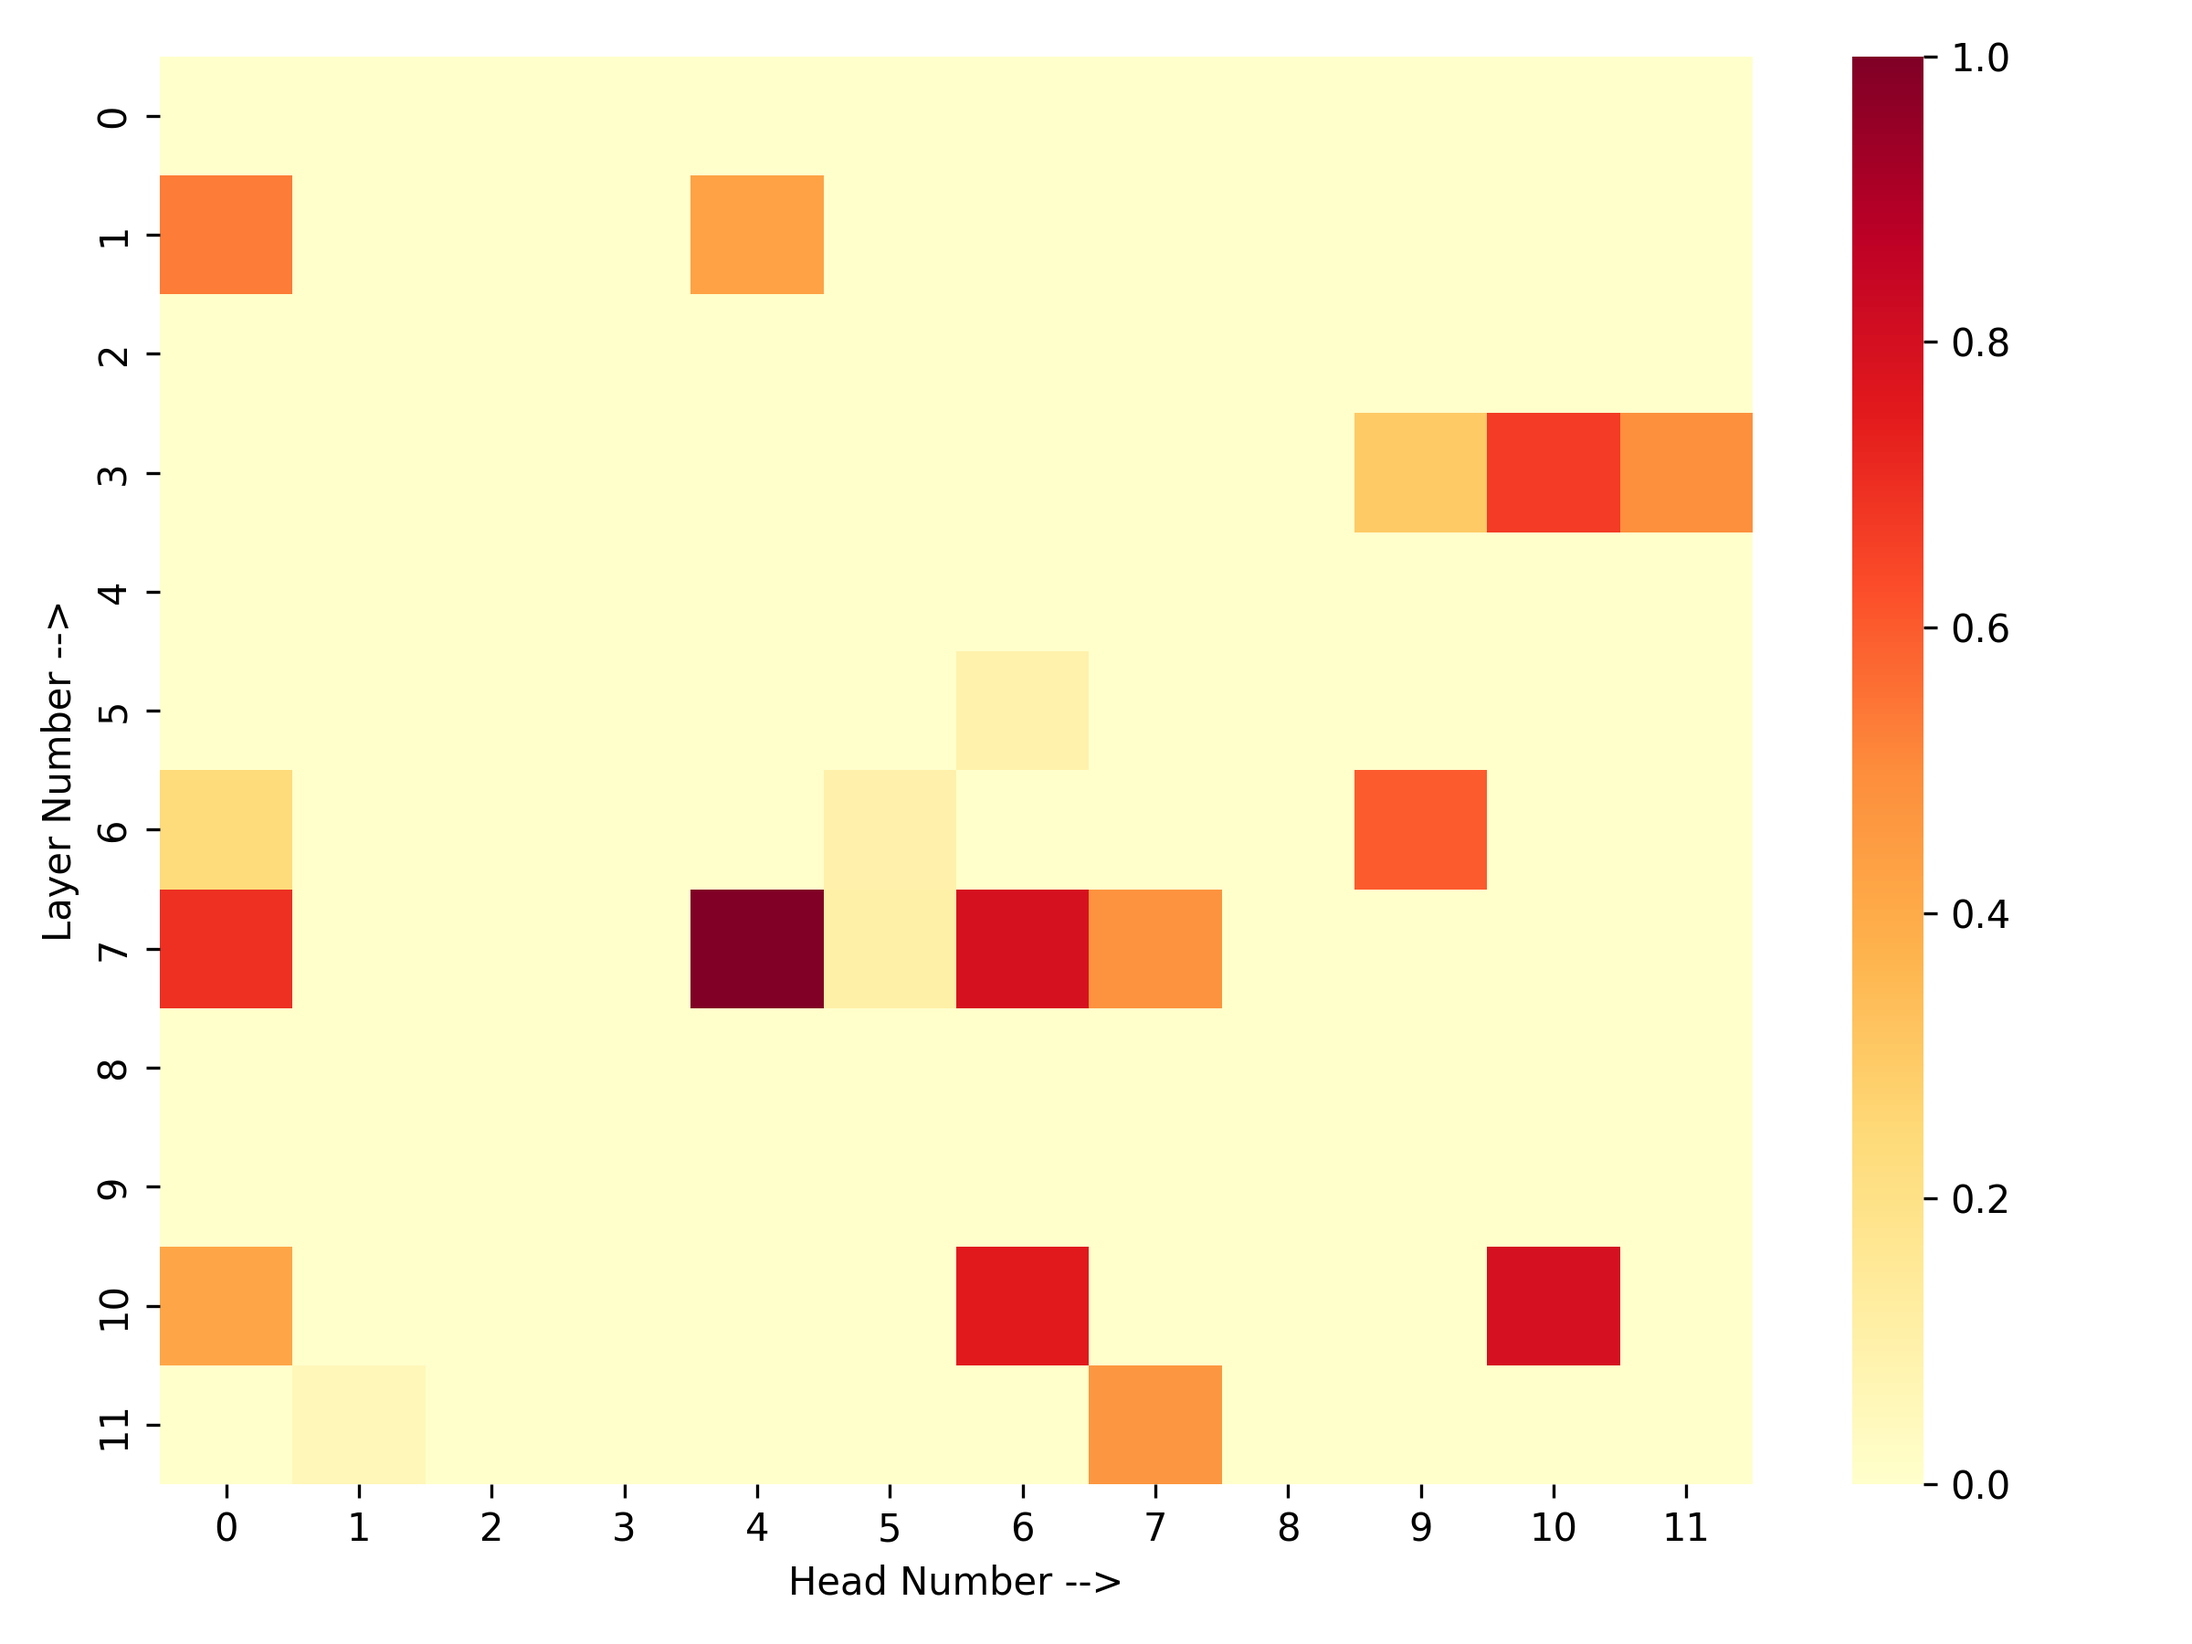
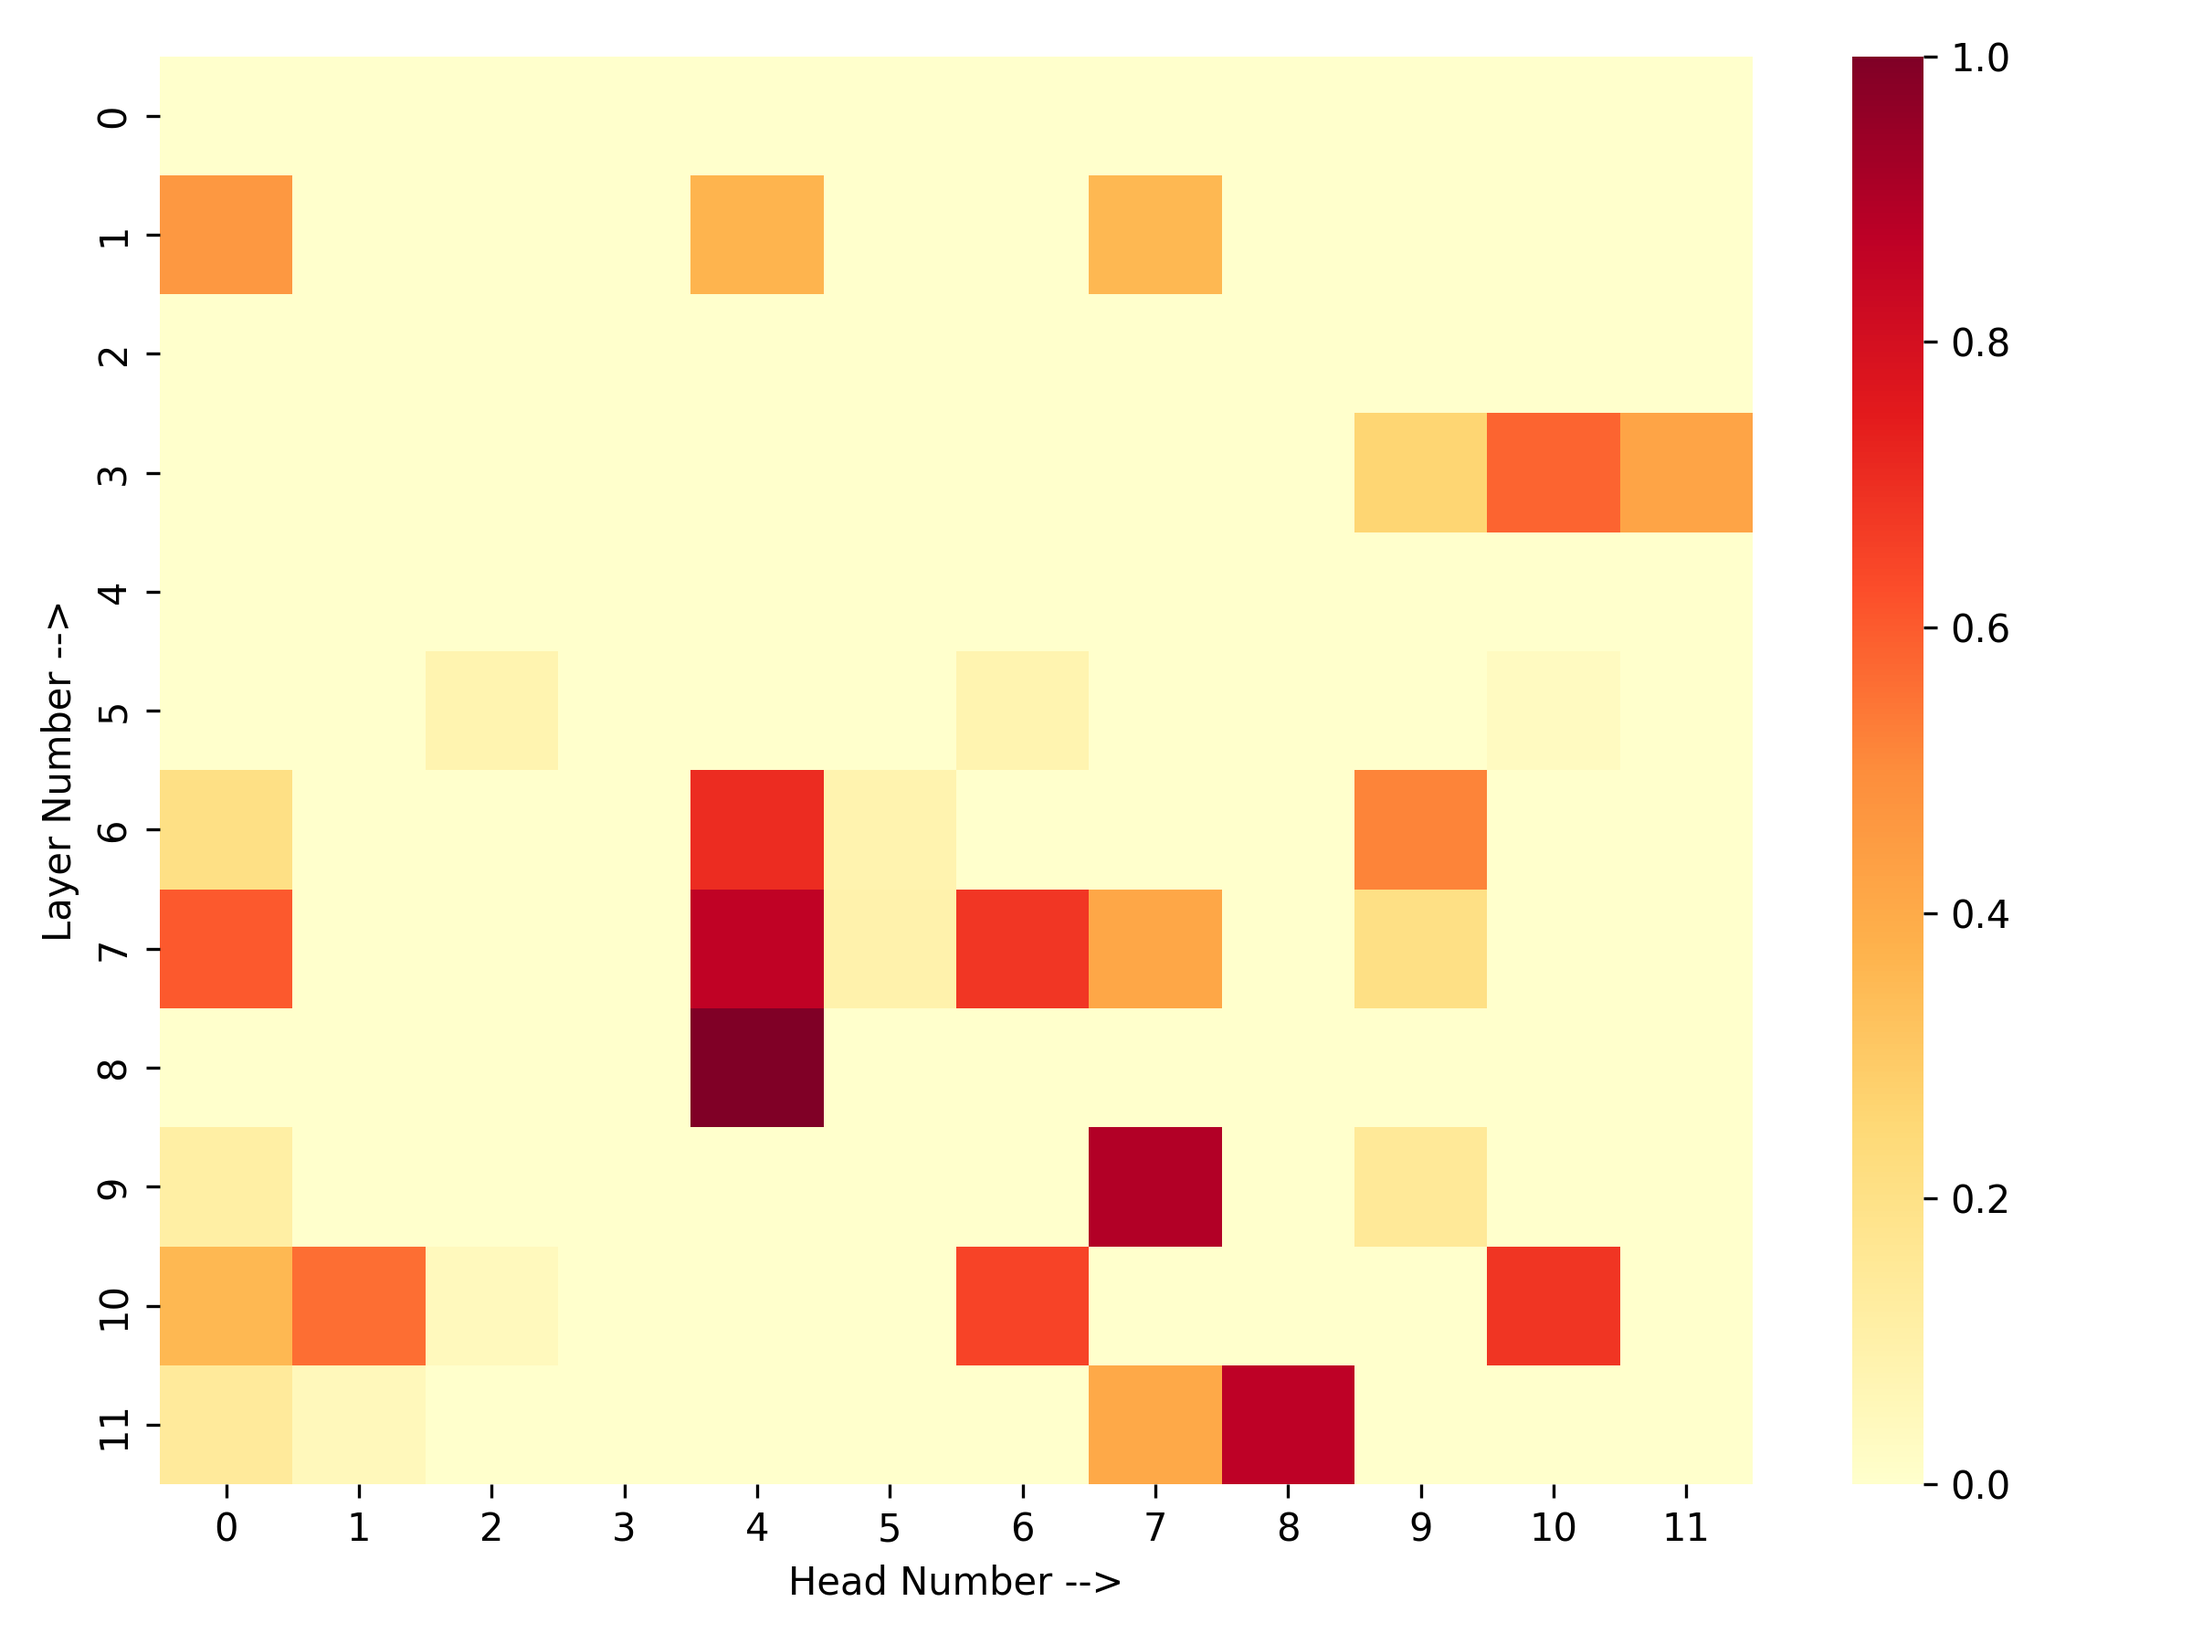
added new plots

diff --git a/code/evaluation.py b/code/evaluation.py
@@ -252,25 +252,34 @@ if __name__ == "__main__":
             lm_scores_gender[layer, head] = results['intrasentence']['gender']['LM Score']
             lm_scores_race[layer, head] = results['intrasentence']['race']['LM Score']
             
-            # Only update SS and ICAT if LM score is greater than base
-            if lm_scores_gender[layer, head] > base_lm_scores_gender[layer, head]:
-                ss_scores_gender[layer, head] = results['intrasentence']['gender']['SS Score']
-                icat_scores_gender[layer, head] = results['intrasentence']['gender']['ICAT Score']
-            if lm_scores_race[layer, head] > base_lm_scores_race[layer, head]:
-                ss_scores_race[layer, head] = results['intrasentence']['race']['SS Score']
-                icat_scores_race[layer, head] = results['intrasentence']['race']['ICAT Score']
+            ss_scores_gender[layer, head] = results['intrasentence']['gender']['SS Score']
+            icat_scores_gender[layer, head] = results['intrasentence']['gender']['ICAT Score']
+            ss_scores_race[layer, head] = results['intrasentence']['race']['SS Score']
+            icat_scores_race[layer, head] = results['intrasentence']['race']['ICAT Score']
 
         # Function to create heatmap for SS and ICAT
-        def create_heatmap_for_metric(scores, base_scores, title, filename):
+        def create_heatmap_for_metric(scores, base_scores, title, filename, ss_check = False):
             comparison_matrix = np.zeros((12, 12))
 
-            for i in range(12):
-                for j in range(12):
-                    if scores[i, j] < base_scores[i, j]:
-                        comparison_matrix[i, j] = 0  # Black if less than base
-                    else:
-                        diff = scores[i, j] - base_scores[i, j]
-                        comparison_matrix[i, j] = min(1, diff / np.max(scores - base_scores))  # Yellow to red
+            if(ss_check):
+                for i in range(12):
+                    for j in range(12):
+                        if scores[i, j] > base_scores[i, j]:
+                            comparison_matrix[i, j] = 0  # Black if greater than base
+                        else:
+                            diff = base_scores[i, j] - scores[i, j]
+                            comparison_matrix[i, j] = min(1, diff / np.max(base_scores - scores))  # Yellow to red
+
+                        # print(comparison_matrix[i, j], diff, np.max(base_scores - scores), diff / np.max(base_scores - scores))
+
+            else:
+                for i in range(12):
+                    for j in range(12):
+                        if scores[i, j] < base_scores[i, j]:
+                            comparison_matrix[i, j] = 0  # Black if less than base
+                        else:
+                            diff = scores[i, j] - base_scores[i, j]
+                            comparison_matrix[i, j] = min(1,diff / np.max(scores - base_scores))  # Yellow to red
 
             # Create heatmap
             plt.figure(figsize=(8, 6))
@@ -284,13 +293,13 @@ if __name__ == "__main__":
             # plt.close()  # Close the plot to free memory
 
         # Create heatmaps for gender and race for LM Score SS Score and ICAT Score
-        create_heatmap_for_metric(lm_scores_gender, base_lm_scores_gender, 'Heatmap of LM Scores (Gender)', "bert/LM_score_gender.png")
-        create_heatmap_for_metric(ss_scores_gender, base_ss_scores_gender, 'Heatmap of SS Scores (Gender)', "bert/SS_score_gender.png")
-        create_heatmap_for_metric(icat_scores_gender, base_icat_scores_gender, 'Heatmap of ICAT Scores (Gender)', "bert/ICAT_score_gender.png")
+        # create_heatmap_for_metric(lm_scores_gender, base_lm_scores_gender, 'Heatmap of LM Scores (Gender)', "bert/LM_score_gender.png")
+        create_heatmap_for_metric(ss_scores_gender, base_ss_scores_gender, 'Heatmap of SS Scores (Gender)', "roberta/SS_score_gender.png", ss_check=True)
+        # create_heatmap_for_metric(icat_scores_gender, base_icat_scores_gender, 'Heatmap of ICAT Scores (Gender)', "bert/ICAT_score_gender.png")
 
-        create_heatmap_for_metric(lm_scores_race, base_lm_scores_race, 'Heatmap of LM Scores (Gender)', "bert/LM_score_race.png")
-        create_heatmap_for_metric(ss_scores_race, base_ss_scores_race, 'Heatmap of SS Scores (Race)', "bert/SS_score_race.png")
-        create_heatmap_for_metric(icat_scores_race, base_icat_scores_race, 'Heatmap of ICAT Scores (Race)', "bert/ICAT_score_race.png")
+        create_heatmap_for_metric(lm_scores_race, base_lm_scores_race, 'Heatmap of LM Scores (Gender)', "roberta/LM_score_race.png")
+        create_heatmap_for_metric(ss_scores_race, base_ss_scores_race, 'Heatmap of SS Scores (Race)', "roberta/SS_score_race.png", ss_check=True)
+        create_heatmap_for_metric(icat_scores_race, base_icat_scores_race, 'Heatmap of ICAT Scores (Race)', "roberta/ICAT_score_race.png")
 
     else:
         parse_file(args.gold_file, args.predictions_file) 

diff --git a/README.md b/README.md
@@ -1,5 +1,5 @@
 # Libraries to Install -
-numpy, torch, transformers, colorama, joblib, scikit-learn
+numpy, torch, transformers, colorama, joblib, scikit-learn, matplotlib, seaborn
 
 # Code to run -
 
